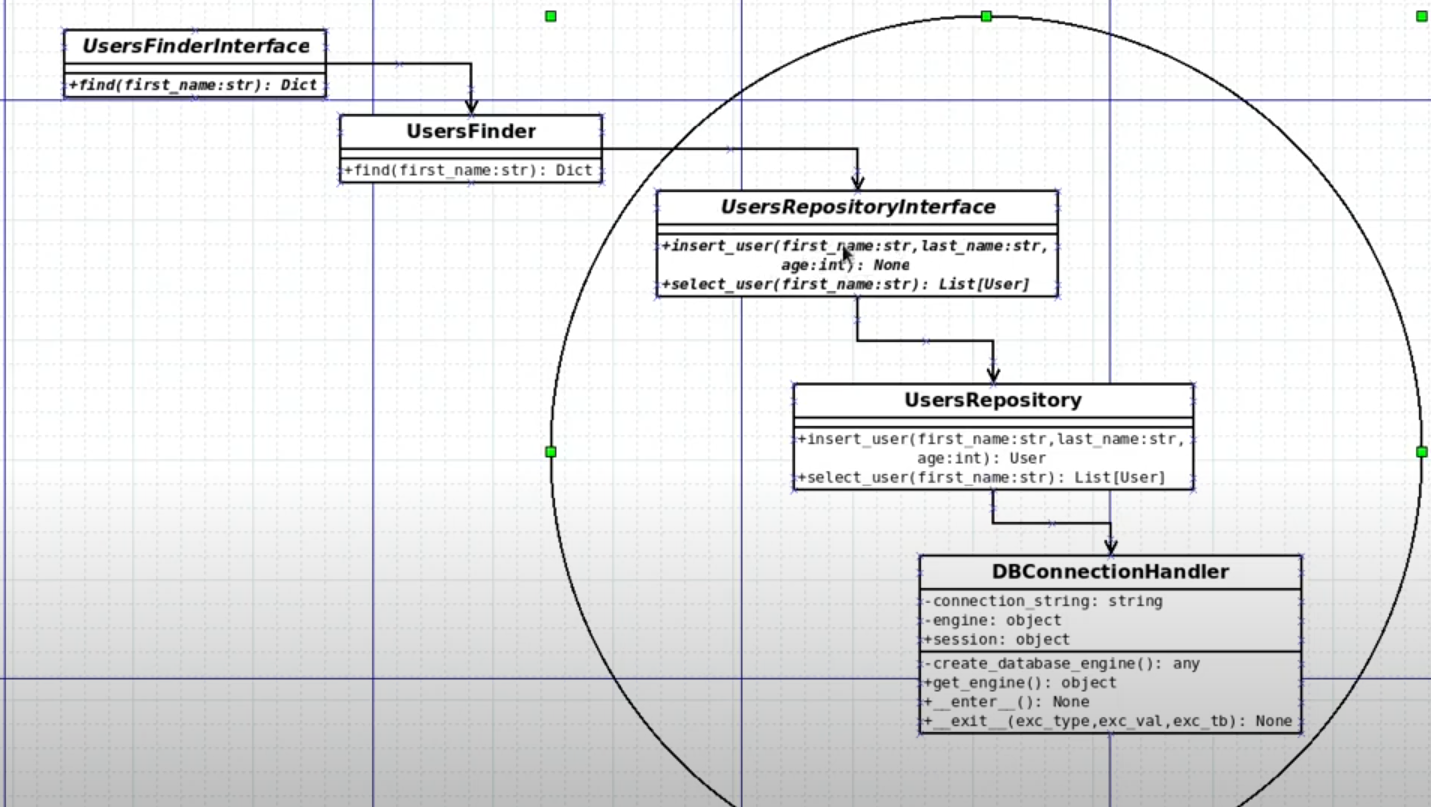
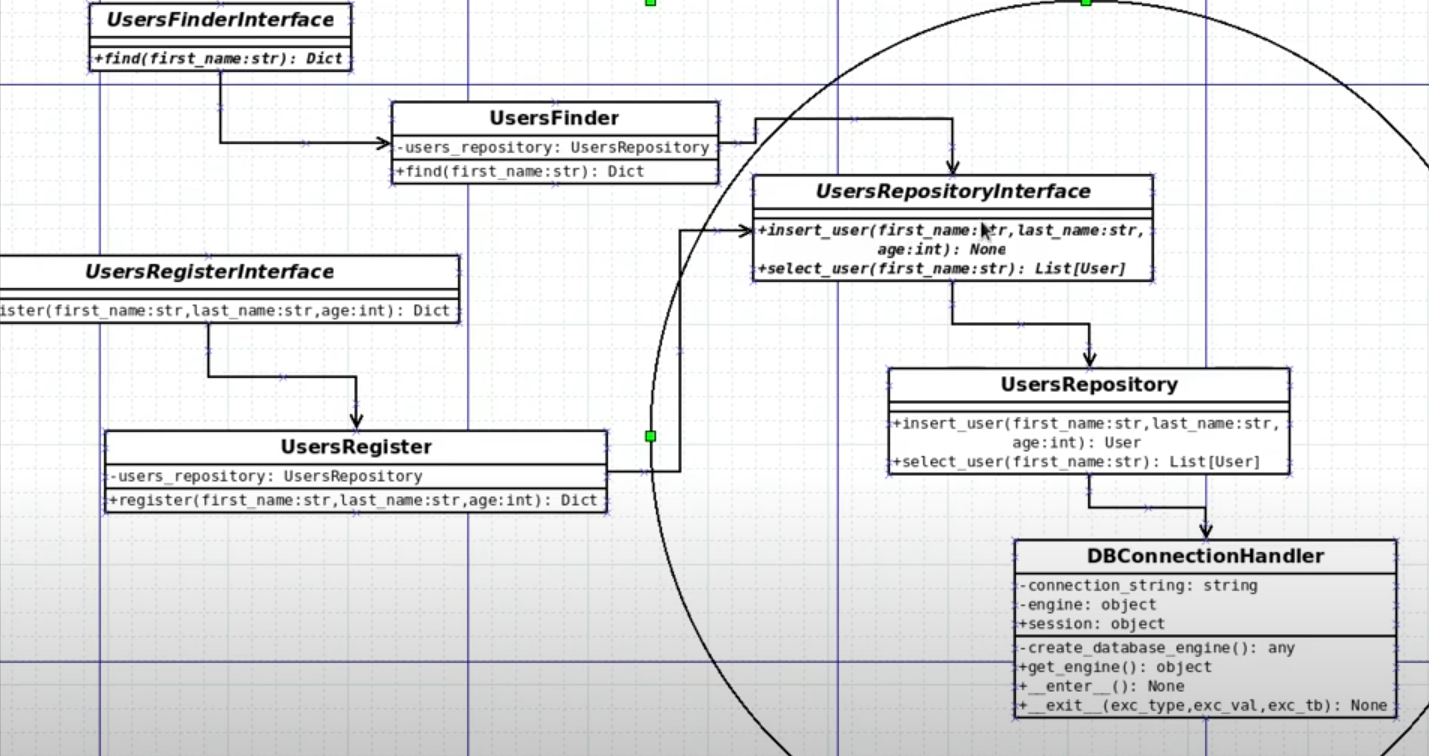
test: user register

diff --git a/src/data/use_cases/user_register.py b/src/data/use_cases/user_register.py
@@ -1,0 +1,40 @@
+#pylint: disable=broad-exception-raised
+
+from typing import Dict
+from src.domain.use_cases.user_register import UserRegister as UserRegisterInterface
+from src.data.interfaces.users_repository import UsersRepositoryInterface
+
+class UserRegister(UserRegisterInterface):
+    def __init__(self, user_repository: UsersRepositoryInterface) -> None:
+        self.__user_repository = user_repository
+
+    def register(self, first_name: str, last_name: str, age: int) -> Dict:
+        self.__validate_name(first_name)
+        self.__validate_name(last_name)
+
+        self.__registry_user_information(first_name, last_name, age)
+
+        return self.__format_response(first_name, last_name, age)
+
+    @classmethod
+    def __validate_name(cls, first_name: str) -> None:
+        if not first_name.isalpha():
+            raise Exception("Nome inválido para a busca")
+
+        if len(first_name) > 18:
+            raise Exception("Nome muito grande para busca")
+
+    def __registry_user_information(self, first_name: str, last_name: str, age: int) -> None:
+        self.__user_repository.insert_user(first_name, last_name, age)
+
+    @classmethod
+    def __format_response(cls, first_name: str, last_name: str, age: int) -> Dict:
+        return {
+            "type": "Users",
+            "count": 1,
+            "attributes": {
+                "first_name": first_name,
+                "last_name": last_name,
+                "age": age
+            }
+        }

diff --git a/src/data/use_cases/user_register_test.py b/src/data/use_cases/user_register_test.py
@@ -1,0 +1,34 @@
+from src.infra.db.tests.users_repository import UsersRepositorySpy
+from .user_register import UserRegister
+
+def test_register():
+    first_name = "ola"
+    last_name = "aqui"
+    age = 3
+
+    repo = UsersRepositorySpy()
+    user_register = UserRegister(repo)
+
+    response = user_register.register(first_name, last_name, age)
+
+    assert repo.insert_user_attributes["first_name"] == first_name
+    assert repo.insert_user_attributes["last_name"] == last_name
+    assert repo.insert_user_attributes["age"] == age
+
+    assert response["type"] == "Users"
+    assert response["count"] == 1
+    assert response["attributes"]
+
+def test_register_first_name_error():
+    first_name = "123"
+    last_name = "aqui"
+    age = 3
+
+    repo = UsersRepositorySpy()
+    user_register = UserRegister(repo)
+
+    try:
+        user_register.register(first_name, last_name, age)
+        assert False
+    except Exception as exception:
+        assert str(exception) == "Nome inválido para a busca"

diff --git a/src/domain/use_cases/user_register.py b/src/domain/use_cases/user_register.py
@@ -1,0 +1,7 @@
+from abc import ABC, abstractmethod
+from typing import Dict
+
+class UserRegister(ABC):
+
+    @abstractmethod
+    def register(self, first_name: str, last_name: str, age: int) -> Dict: pass
